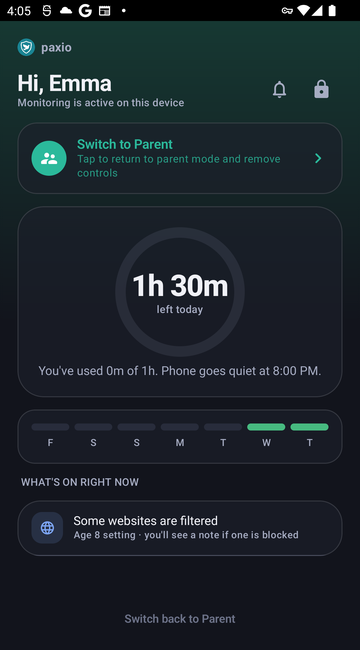
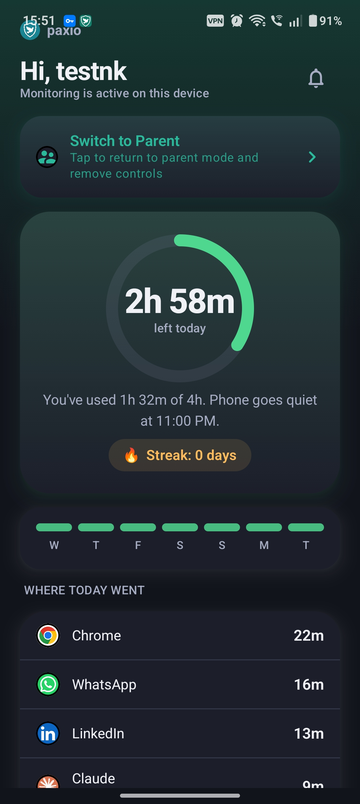
Update child-dashboard and reports-screen with real screenshots
Real on-device screenshots replacing outdated/generic ones:
- child-dashboard.png: current child overview with streak badge and
  7-day compliance row
- reports-screen.html now shows a pair of real screenshots (most-used
  apps + stat tiles, and the screen-time trend + category breakdown
  charts) instead of one generic image

diff --git a/reports-screen.html b/reports-screen.html
@@ -105,9 +105,14 @@ document.addEventListener('click', function (e) {
       </div>
       <div class="showcase-media">
         <div class="showcase-blob b-blue"></div>
-        <figure class="help-shot">
-          <img src="help/images/report-overview.png" alt="Paxio Reports screen, Weekly tab, showing a usage trend chart and stat tiles">
-        </figure>
+        <div class="help-shot-pair">
+          <figure class="help-shot">
+            <img src="help/images/report-overview.png" alt="Paxio Reports screen, Weekly tab, showing most-used apps and six stat tiles">
+          </figure>
+          <figure class="help-shot">
+            <img src="help/images/report-trend.png" alt="Paxio Reports screen showing a screen time trend chart and time-by-category breakdown">
+          </figure>
+        </div>
       </div>
     </div>
   </div>
